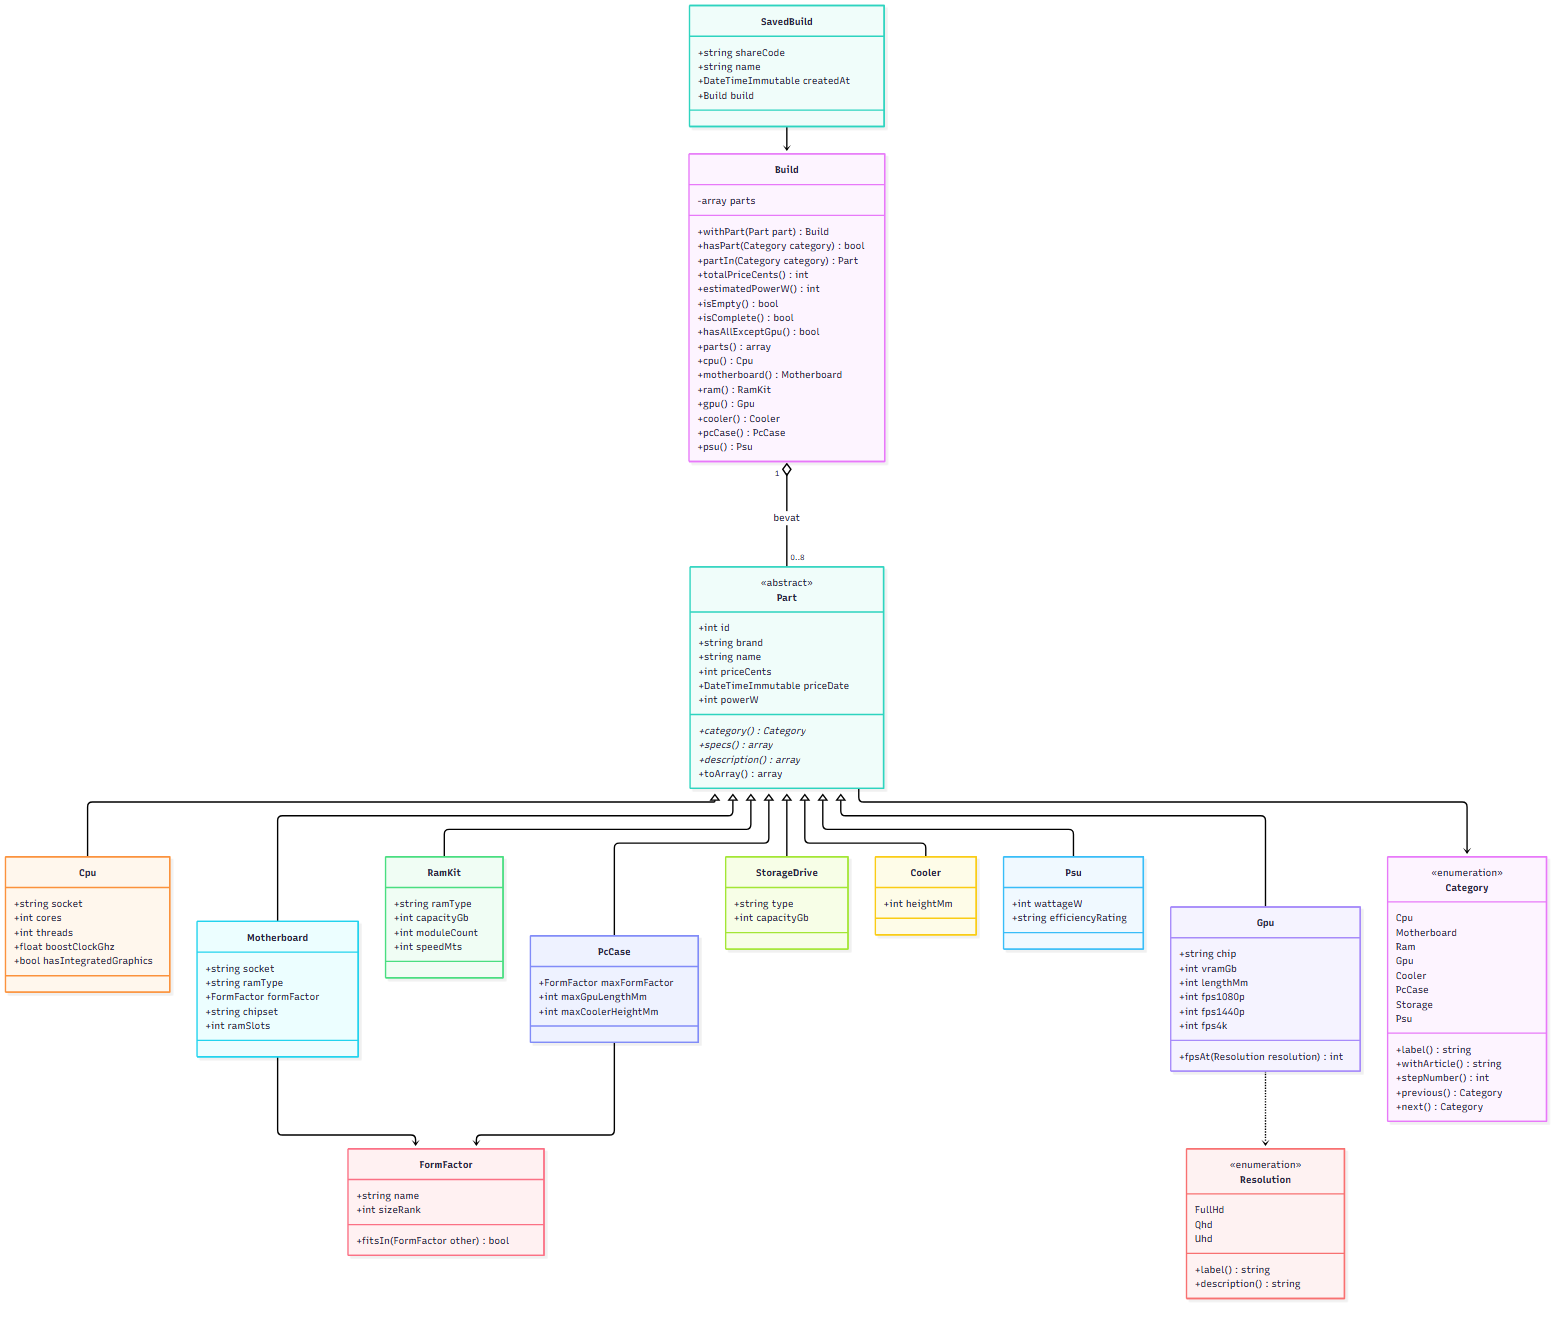
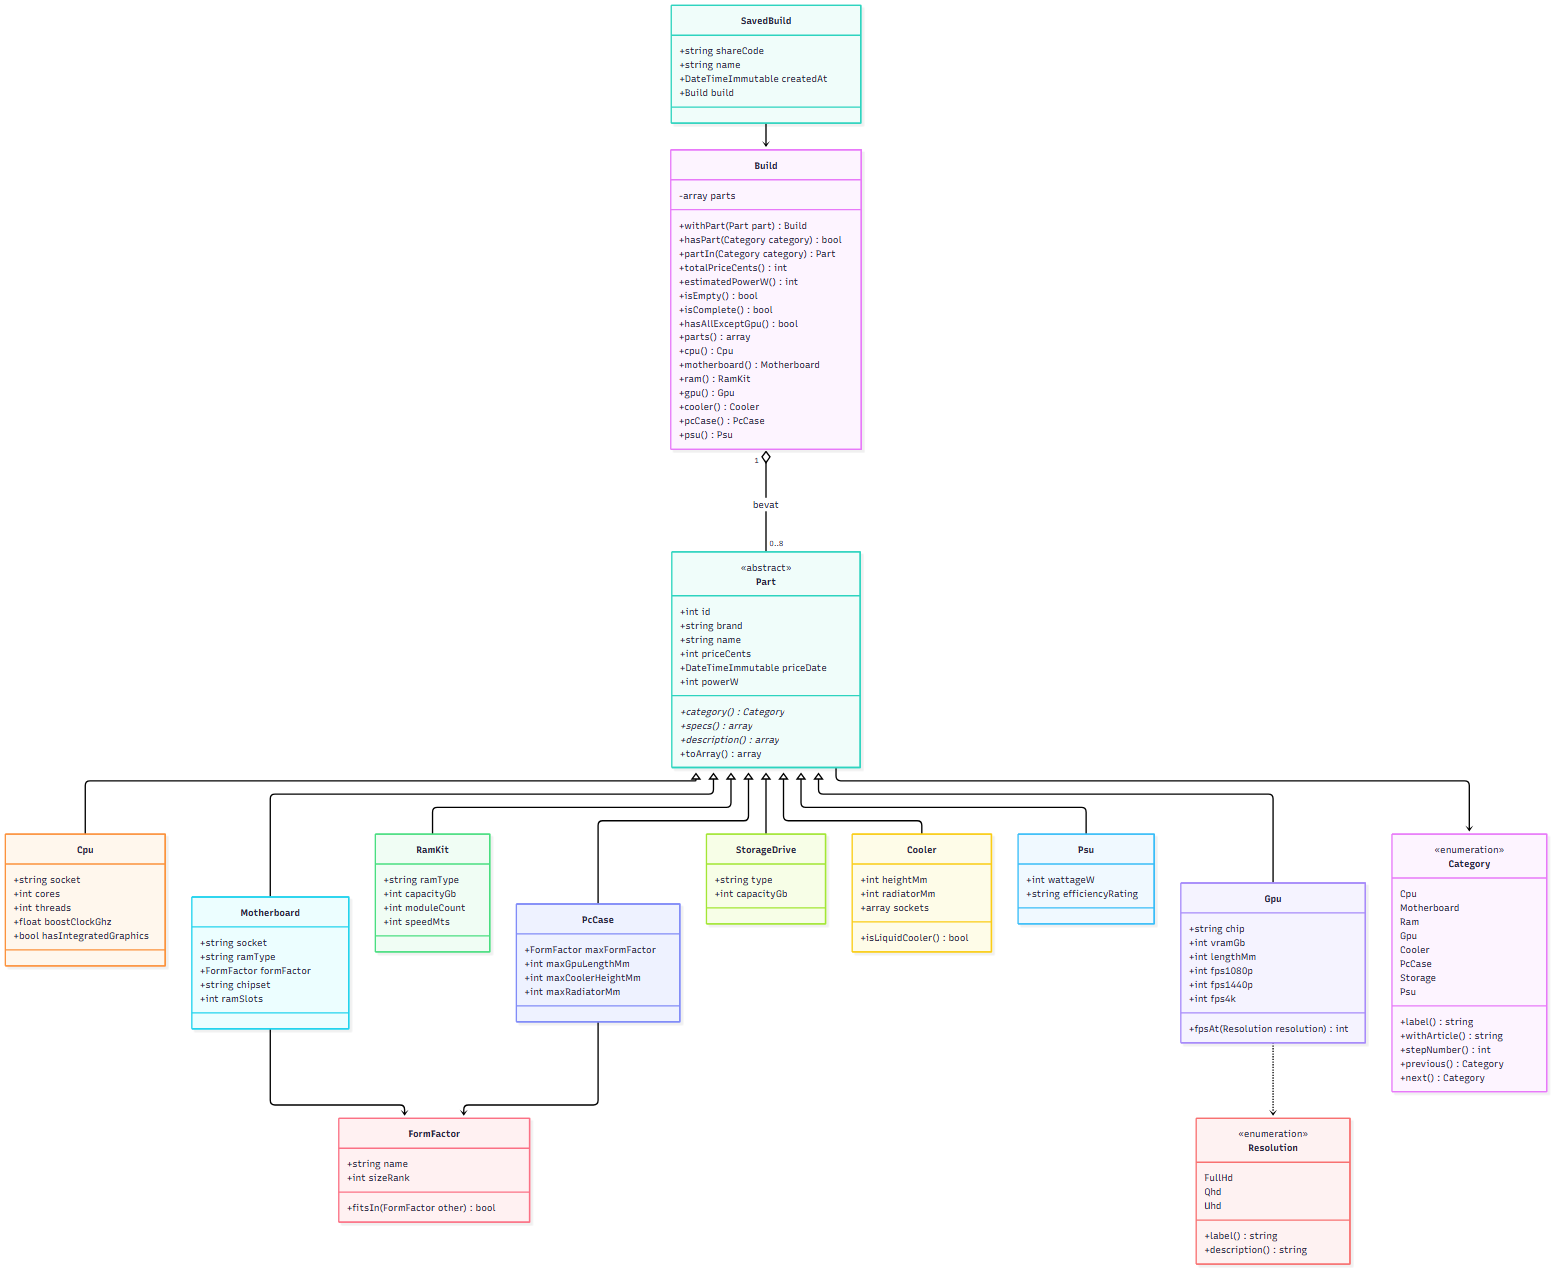
docs: ontwerp met vergelijken, afdrukken, sockets van koelers en waterkoeling

diff --git a/docs/ontwerp.md b/docs/ontwerp.md
@@ -55,6 +55,8 @@ flowchart LR
         uc8([Aanbeveling vragen])
         uc9([Aanbeveling overnemen])
         uc10([Onderdelen inladen])
+        uc11([Builds vergelijken])
+        uc12([Build afdrukken])
     end
     gebruiker --- uc1
     gebruiker --- uc3
@@ -68,6 +70,8 @@ flowchart LR
     uc7 -.->|"«include»"| uc4
     uc8 -.->|"«include»"| uc4
     uc9 -.->|"«extend»"| uc8
+    uc11 -.->|"«extend»"| uc7
+    uc12 -.->|"«extend»"| uc7
 ```
 
 | Use case | Eisen | Korte beschrijving |
@@ -82,6 +86,8 @@ flowchart LR
 | Aanbeveling vragen | F-16, F-17, F-31, F-32 | De gebruiker kiest een doel en bij gamen en streamen ook scherm en soort games. Het budget mag leeg blijven. Daarna volgt een build met uitleg. |
 | Aanbeveling overnemen | F-19 | De gebruiker zet de aanbeveling in de bouwplanner om hem aan te passen. |
 | Onderdelen inladen | F-01 | De ontwikkelaar vult de database met het seed-script. |
+| Builds vergelijken | F-22 | De gebruiker vult bij een opgeslagen build de code van een tweede build in en ziet ze naast elkaar. |
+| Build afdrukken | F-23 | De gebruiker drukt een opgeslagen build af op één A4, zonder menu en knoppen. |
 
 ## 3. ERD
 
@@ -146,13 +152,19 @@ erDiagram
     }
     coolers {
         int part_id PK, FK
-        smallint height_mm
+        smallint height_mm "leeg bij een waterkoeler"
+        smallint radiator_mm "leeg bij een luchtkoeler"
+    }
+    cooler_sockets {
+        int cooler_id PK, FK
+        int socket_id PK, FK
     }
     cases {
         int part_id PK, FK
         int max_form_factor_id FK
         smallint max_gpu_length_mm
         smallint max_cooler_height_mm
+        smallint max_radiator_mm
     }
     storage_drives {
         int part_id PK, FK
@@ -185,6 +197,8 @@ erDiagram
     parts ||--o| psus : "specificaties"
     sockets ||--o{ cpus : "past op"
     sockets ||--o{ motherboards : "heeft"
+    coolers ||--|{ cooler_sockets : "past op"
+    sockets ||--o{ cooler_sockets : "hoort bij"
     ram_types ||--o{ motherboards : "ondersteunt"
     ram_types ||--o{ ram_kits : "is van type"
     form_factors ||--o{ motherboards : "heeft formaat"
@@ -201,6 +215,8 @@ Toelichting:
 - **Build en onderdelen** is een veel-op-veel-relatie via `build_parts`. Dat er per categorie maar één onderdeel in een build zit, controleert de code bij het opslaan.
 - **View `part_details`:** een onderdeel staat verdeeld over `parts`, de tabel van de categorie en de opzoektabellen. De view voegt die samen tot één rij per onderdeel. De PHP-code leest altijd uit deze view, zodat de lange reeks joins op één plek staat (`database/schema.sql`). Velden van een andere categorie zijn in die rij leeg (NULL). De view staat niet in het ERD, omdat hij geen eigen gegevens bevat.
 - **FPS bij videokaarten:** `fps_1080p`, `fps_1440p` en `fps_4k` zijn de gemiddelde beelden per seconde in zware games op dat scherm, uit één bron. De aanbeveling gebruikt ze om een videokaart te kiezen die snel genoeg is (F-31). Waar de getallen vandaan komen, staat in [data-controle.md](data-controle.md).
+- **Sockets van een koeler:** een koeler past op meerdere sockets. Daarom staan die in de koppeltabel `cooler_sockets`, met een rij per koeler en socket. De view zet ze met `GROUP_CONCAT` in één kolom `cooler_sockets`, bijvoorbeeld `AM4,AM5,LGA1700`.
+- **Luchtkoeler of waterkoeler:** een luchtkoeler heeft een hoogte (`height_mm`), een waterkoeler een radiator (`radiator_mm`). Het andere veld is leeg. Een kast heeft de grootste radiator die erin past (`max_radiator_mm`).
 - **Geen M.2-sloten:** in de eerste versie van het ontwerp had een moederbord ook `m2_slots`. Dat veld is eruit gehaald, omdat geen enkele regel het gebruikt en ik het aantal per moederbord niet zeker wist.
 
 ## 4. Klassendiagram
@@ -279,11 +295,15 @@ classDiagram
     }
     class Cooler {
         +int heightMm
+        +int radiatorMm
+        +array sockets
+        +isLiquidCooler() bool
     }
     class PcCase {
         +FormFactor maxFormFactor
         +int maxGpuLengthMm
         +int maxCoolerHeightMm
+        +int maxRadiatorMm
     }
     class StorageDrive {
         +string type
@@ -362,6 +382,8 @@ classDiagram
         -psuWattageRule(Build build) array
         -gpuLengthRule(Build build) array
         -coolerHeightRule(Build build) array
+        -radiatorRule(Build build) array
+        -coolerSocketRule(Build build) array
         -graphicsRule(Build build) array
     }
     class CheckReport {
@@ -665,7 +687,7 @@ flowchart TD
 
 Voorbeeld met 30% marge en een verbruik van 450 W: nodig is 585 W. Een voeding van 650 W is in orde, 500 W geeft een waarschuwing en 400 W een fout. Een voeding van precies 585 W is in orde.
 
-## 6. De zeven compatibiliteitsregels
+## 6. De negen compatibiliteitsregels
 
 | Regel | Eis | Nodig | In orde als | Voorbeeld van een foutmelding |
 |---|---|---|---|---|
@@ -674,7 +696,9 @@ Voorbeeld met 30% marge en een verbruik van 450 W: nodig is 585 W. Een voeding v
 | `formFactorRule()` | F-07 | moederbord, kast | `size_rank` moederbord ≤ `size_rank` grootste formaat kast | Het moederbord is ATX, maar in deze kast past maximaal Micro-ATX. |
 | `psuWattageRule()` | F-08 | voeding, processor | zie 5.1 | De voeding levert 400 W, maar de onderdelen verbruiken samen ongeveer 450 W. |
 | `gpuLengthRule()` | F-09 | kast | geen videokaart, of lengte videokaart ≤ maximale lengte kast | De videokaart is 336 mm lang, maar in deze kast past maximaal 305 mm. |
-| `coolerHeightRule()` | F-10 | koeler, kast | hoogte koeler ≤ maximale koelerhoogte kast | De koeler is 168 mm hoog, maar in deze kast past maximaal 155 mm. |
+| `coolerHeightRule()` | F-10 | koeler, kast | waterkoeler, of hoogte koeler ≤ maximale koelerhoogte kast | De koeler is 168 mm hoog, maar in deze kast past maximaal 155 mm. |
+| `radiatorRule()` | F-25 | koeler, kast | luchtkoeler, of radiator ≤ grootste radiator kast | De radiator is 360 mm, maar in deze kast past maximaal 240 mm. |
+| `coolerSocketRule()` | F-24 | koeler, processor | socket processor staat in de sockets van de koeler | De koeler past niet op socket LGA1851. Hij past op AM4, AM5, LGA1700. |
 | `graphicsRule()` | F-21 | processor | er is een videokaart, of de processor heeft ingebouwde graphics | Deze processor heeft geen ingebouwde graphics. Zonder videokaart krijg je geen beeld. |
 
 De voedingsregel heeft naast de voeding ook de processor nodig. Zonder processor zou het verbruik heel laag uitvallen en zou elke voeding "in orde" zijn, wat de gebruiker op het verkeerde been zet.
@@ -871,13 +895,16 @@ Voorbeeld van een foutmelding:
 | `/overzicht` | Alle gekozen onderdelen, het controleresultaat en het formulier om op te slaan. |
 | `/opslaan` | POST: slaat de build op en stuurt door naar de opgeslagen build. |
 | `/build/open` | Verwerkt het veld met de deelcode op de startpagina. |
-| `/build/{code}` | Een opgeslagen build. |
+| `/build/{code}` | Een opgeslagen build, met een formulier om hem te vergelijken. |
+| `/vergelijken?a={code}&b={code}` | Twee opgeslagen builds naast elkaar, met per onderdeel het verschil in prijs en onderaan het verschil in totaal en verbruik (F-22). Op een telefoon staan de twee builds per onderdeel onder elkaar. |
 | `/aanbeveling` | Formulier voor doel, scherm, soort games en budget, en daaronder het resultaat. |
 | `/aanbeveling/overnemen` | POST: rekent de aanbeveling opnieuw uit, zet hem in de sessie en stuurt door naar het overzicht. |
 
 De build waar de gebruiker mee bezig is, staat in de PHP-sessie. Kiezen en verwijderen gaat met een gewoon formulier (POST). Daarna stuurt de server de browser door naar dezelfde stap, zodat vernieuwen de keuze niet opnieuw verstuurt. Zo werkt alles zonder JavaScript (NF-07).
 
 Er is één klein JavaScript-bestand, `public/js/live.js`, van ongeveer 30 regels. Als JavaScript aan staat, verstuurt het de keuze op de achtergrond. De server geeft de normale pagina terug, en het script vervangt alleen de stappen, de kaartjes en de totalen. Alle logica blijft dus in PHP. De totalen staan in een `aria-live`-gebied, zodat een schermlezer de nieuwe prijs voorleest, en de focus blijft op hetzelfde kaartje. Op een telefoon klapt het script ook de filters in, die in een `<details>`-blok staan. Zonder JavaScript staat dat blok gewoon open.
+
+**Afdrukken (F-23).** Onderaan `style.css` staat een blok `@media print`. Bij afdrukken verdwijnen het menu, de knoppen en de formulieren, en worden de regels kleiner. Een opgeslagen build en het overzicht passen zo op één A4. Er is geen aparte printpagina en geen JavaScript voor nodig.
 
 In een eerdere versie van dit ontwerp haalde het script de totalen op via `POST /api/builds/check`. Dat is veranderd, zie [keuzes.md](keuzes.md).
 
@@ -975,6 +1002,10 @@ Vaste onderdelen van de stijl:
 | F-32 | `Input::budget()`, `Recommender::recommend()` (§7.2) |
 | F-18 | REST API (§8) |
 | F-19 | `RecommendationPageController::adopt()`, `WorkingBuild::replaceWith()` |
+| F-22 | `BuildPageController::compare()`, `templates/compare.php` (§9) |
+| F-23 | `@media print` in `public/css/style.css` (§9) |
+| F-24 | Tabel `cooler_sockets` (§3), `coolerSocketRule()` (§6) |
+| F-25 | Kolommen `radiator_mm` en `max_radiator_mm` (§3), `radiatorRule()` (§6) |
 | F-21 | Regel `graphicsRule()` in de `CompatibilityChecker` (§4.2, §6) |
 | NF-01, NF-02 | `public/css/style.css`, templates |
 | NF-03 | `PartRepository` en `BuildRepository` met prepared statements, escaping in de templates |
